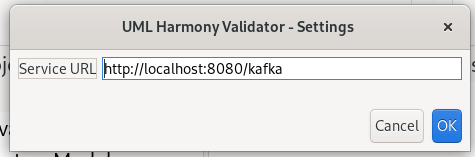
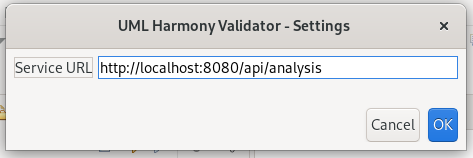
docs: update usage section

Changed region(s): [[0.0, 0.0, 1.0, 1.0], [0.2368, 0.1274, 0.7696, 0.2293], [0.0296, 0.9936, 0.0592, 1.0]]

diff --git a/README.md b/README.md
@@ -30,7 +30,7 @@ This plug-in provides an integrated workflow for model validation within Eclipse
 ## Features
  
 * Validate UML models (Class and Sequence Diagrams) directly within Eclipse.
-* Detect multiple types of inconsistencies (e.g., class duplication, abstract instantiation, missing methods).
+* Detect multiple types of inconsistencies, described in [Supported Inconsistency Types](#supported-inconsistency-types).
 * Configure service endpoint through the settings dialog.
 * Lightweight integration with existing EMF-based projects.
 
@@ -72,18 +72,21 @@ This plug-in provides an integrated workflow for model validation within Eclipse
    * Finish the export to generate the `.jar` file.
 6. Copy the exported `.jar` into your Eclipse **`dropins/`** directory.
    > If the `dropins/` folder does not exist, create it in the Eclipse root directory.
-7. Restart Eclipse to activate the plug-in.
+7. Open/Restart Eclipse to activate the plug-in.
+
 > [!TIP]
 > Confirm the installation by going to **Window > Show View > Other...** and searching for **UML Harmony Validator Panel**.
 
 ## Configuration
  
 1. Open the panel by navigating to **Window > Show View > Other...**, then searching for **UML Harmony Validator Panel** and double-clicking to add it to your workspace.
-   ![Papyrus show view](images/papyrus_show_view.png)
+  
+  ![Papyrus show view](images/papyrus_show_view.png)
 
 2. Open **UML Harmony Validator > Plug-in Settings** from the menu.
-   ![Plug-in menu](images/plug_in_menu_settings.png)
-   ![Plug-in settings](images/plug_in_settings.png)
+  
+  ![Plug-in menu](images/plug_in_menu_settings.png)
+  ![Plug-in settings](images/plug_in_settings.png)
 
 3. Set the **Service URL** to point to the backend validator service, for example:
 ```
@@ -96,23 +99,23 @@ This plug-in provides an integrated workflow for model validation within Eclipse
 > The plug-in stores these settings in Eclipse preferences for persistent use between sessions.
 
 ## Usage
- 
-1. Open any UML project in your Eclipse workspace.
-   ![Papyrus workspace](images/papyrus_workspace_1.png)
 
-2. Open the UML model view (`.uml` file). The analysis works on the active UML view.
-   ![UML File](images/papyrus_workspace_2.png)
+1. Open your UML project (1) in the Eclipse workspace and navigate to the UML model view. In the plug-in (2), trigger the analysis (3) via the shortcut icon or navigate to **Menu > Analyze Model**.
 
-3. With the UML model view open, trigger the analysis via the shortcut icon in the plug-in panel or navigate to **Menu > Analyze Model**.
-   ![Analyze model action](images/papyrus_workspace_3.png)
+   ![Analyze model](images/use_1.png)
 
-4. The plug-in sends the model to the configured backend service and displays the inconsistency results in the panel once the analysis completes.
-   ![Inconsistency results](images/papyrus_workspace_4.png)
+2. Once the analysis completes, results are displayed in the panel with a summary of total inconsistencies found (1), organized by diagrams (2), their elements (3), and the inconsistencies per element (4).
 
-5. Navigate between results — diagram and element boxes are interactive. Click a **diagram** to display its **elements**, then click an **element** to view its **inconsistencies**.
-   ![Sequence diagram](images/papyrus_workspace_5.png)
-   ![Class diagram](images/papyrus_workspace_6.png)
-   
+   ![Analysis result](images/use_2.png)
+
+3. The panel is interactive, click a **diagram** (1) to list its **elements**, then click an **element** (2) to view its **inconsistencies** (3).
+
+   ![Navigate](images/use_3.png)
+
+4. When the **model has no inconsistencies**, the panel is cleared automatically.
+
+   ![Consistent](images/use_4.png)
+
 > [!NOTE]
 > Internet or local network access is required to reach the configured service URL.
 
